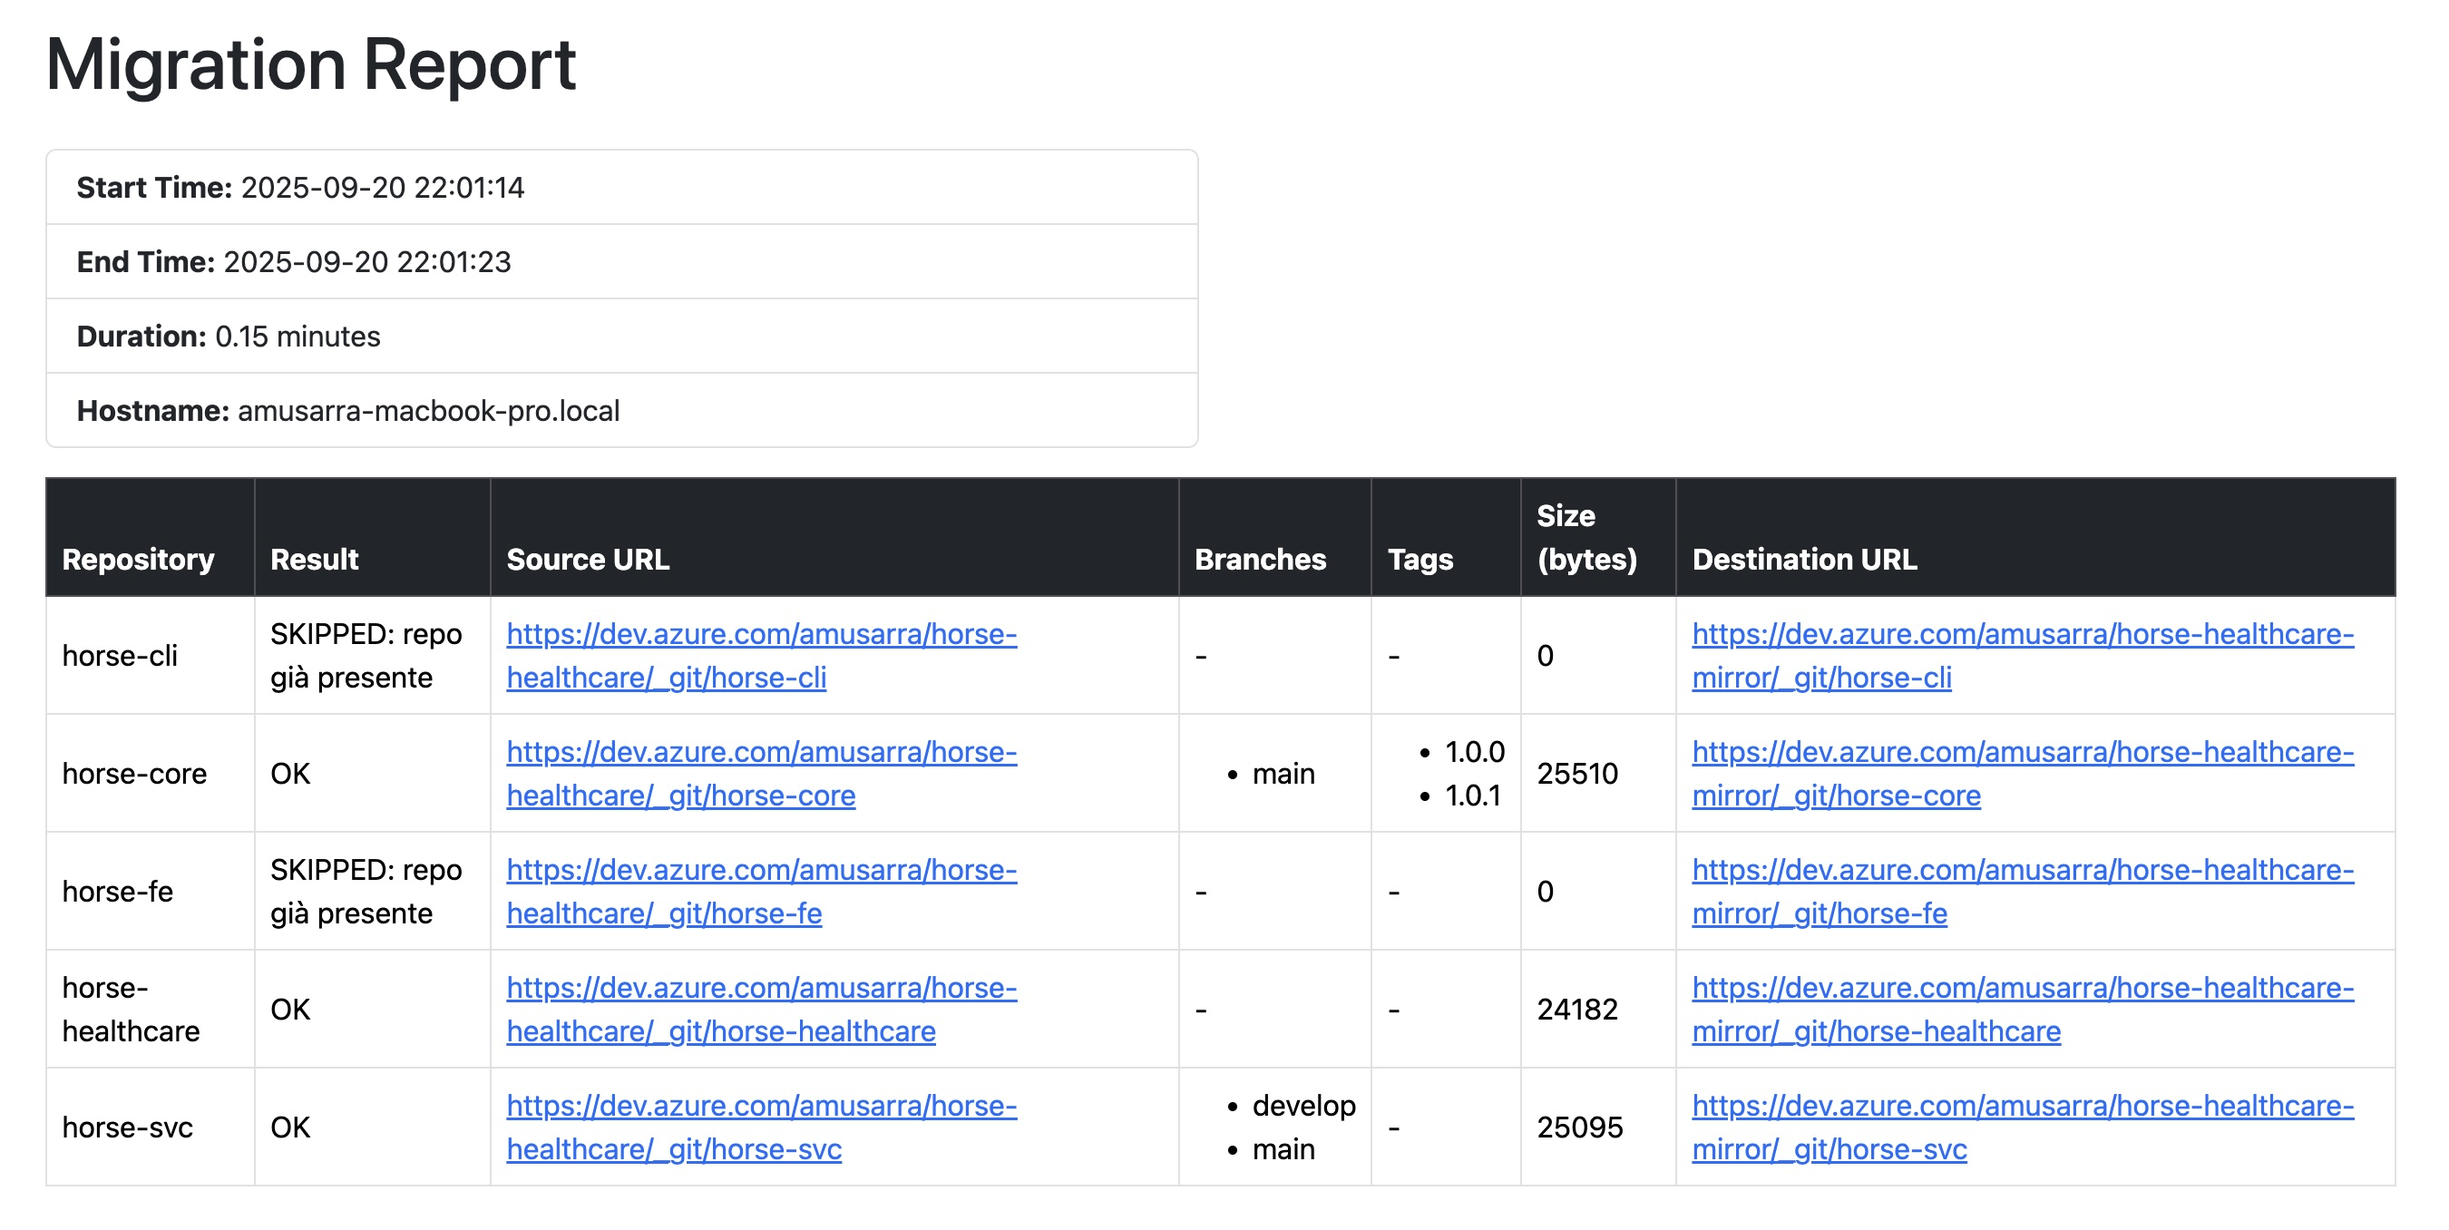
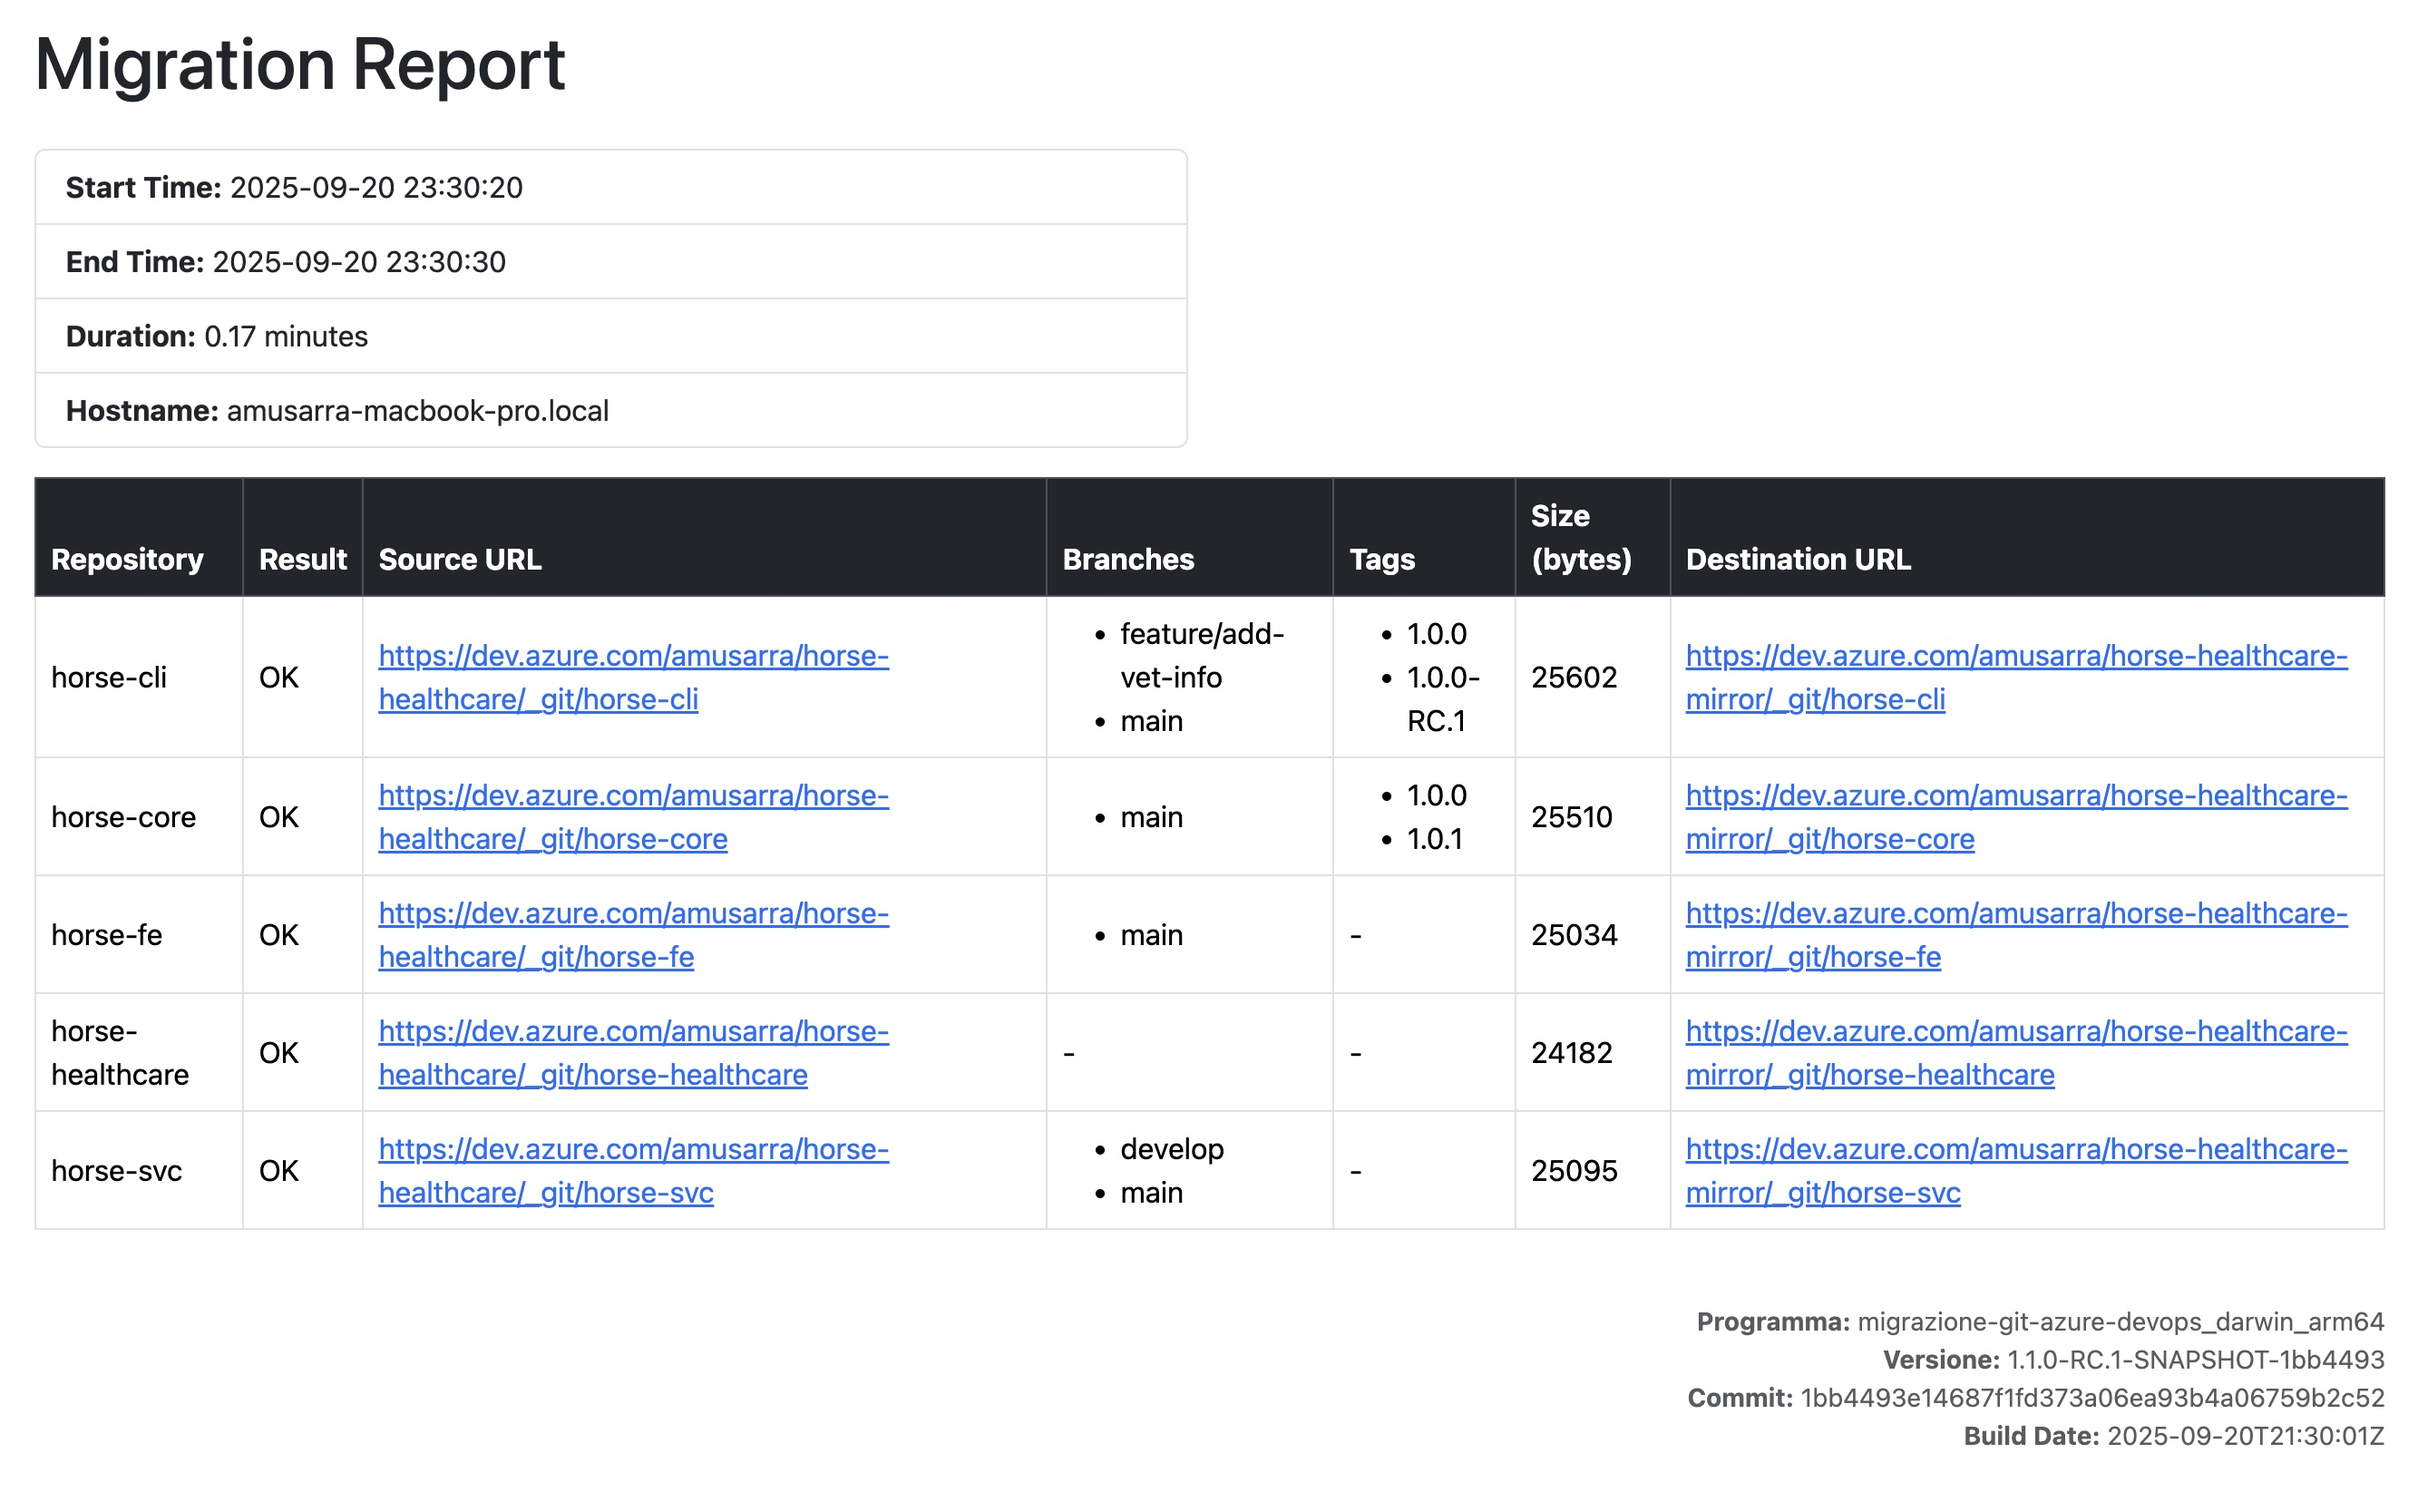
feat: aggiunte informazioni su programma, versione, commit e data di build nel report HTML

diff --git a/cmd/migrazione-git-azure-devops/main.go b/cmd/migrazione-git-azure-devops/main.go
@@ -74,11 +74,15 @@ type Summary struct {
 
 // Report contiene le informazioni globali del report e i riepiloghi per repository.
 type Report struct {
-	StartTime time.Time
-	EndTime   time.Time
-	Duration  float64 // in minuti
-	Hostname  string
-	Summaries []Summary
+	StartTime   time.Time
+	EndTime     time.Time
+	Duration    float64 // in minuti
+	Hostname    string
+	Summaries   []Summary
+	ProgramName string
+	Version     string
+	Commit      string
+	BuildDate   string
 }
 
 // main è il punto di ingresso dell’applicazione: delega a Execute() definita in root.go.
@@ -227,11 +231,15 @@ func runWizard(cfg Config) error {
 	// Genera report se richiesto
 	if cfg.ReportFormats != nil {
 		report := Report{
-			StartTime: startTime,
-			EndTime:   endTime,
-			Duration:  duration,
-			Hostname:  hostname,
-			Summaries: summary,
+			StartTime:   startTime,
+			EndTime:     endTime,
+			Duration:    duration,
+			Hostname:    hostname,
+			Summaries:   summary,
+			ProgramName: prog(),
+			Version:     version,
+			Commit:      commit,
+			BuildDate:   date,
 		}
 		if err := generateAndSaveReport(report, cfg); err != nil {
 			fmt.Fprintln(os.Stderr, "Errore generazione report:", err)
@@ -339,11 +347,15 @@ func runNonInteractive(cfg Config) error {
 	// Genera report se richiesto
 	if cfg.ReportFormats != nil {
 		report := Report{
-			StartTime: startTime,
-			EndTime:   endTime,
-			Duration:  duration,
-			Hostname:  hostname,
-			Summaries: all,
+			StartTime:   startTime,
+			EndTime:     endTime,
+			Duration:    duration,
+			Hostname:    hostname,
+			Summaries:   all,
+			ProgramName: prog(),
+			Version:     version,
+			Commit:      commit,
+			BuildDate:   date,
 		}
 		if err := generateAndSaveReport(report, cfg); err != nil {
 			fmt.Fprintln(os.Stderr, "Errore generazione report:", err)

diff --git a/cmd/migrazione-git-azure-devops/utils.go b/cmd/migrazione-git-azure-devops/utils.go
@@ -119,6 +119,7 @@ func getGitRefNames(repoDir, refType string) ([]string, error) {
 }
 
 // generateHTML genera una rappresentazione HTML del report come tabella, usando Bootstrap e il motore di template.
+// Le informazioni su programma/versione/commit/build sono ora mostrate nel footer, allineate a destra.
 func generateHTML(report Report) string {
 	const tpl = `<!DOCTYPE html>
 <html lang="it">
@@ -180,6 +181,16 @@ func generateHTML(report Report) string {
         {{ end }}
       </tbody>
     </table>
+  </div>
+  <div class="row mt-4">
+    <div class="col-12">
+      <div class="text-end text-muted small">
+        <div><strong>Programma:</strong> {{ .ProgramName }}</div>
+        <div><strong>Versione:</strong> {{ .Version }}</div>
+        <div><strong>Commit:</strong> {{ .Commit }}</div>
+        <div><strong>Build Date:</strong> {{ .BuildDate }}</div>
+      </div>
+    </div>
   </div>
 </div>
 </body>
